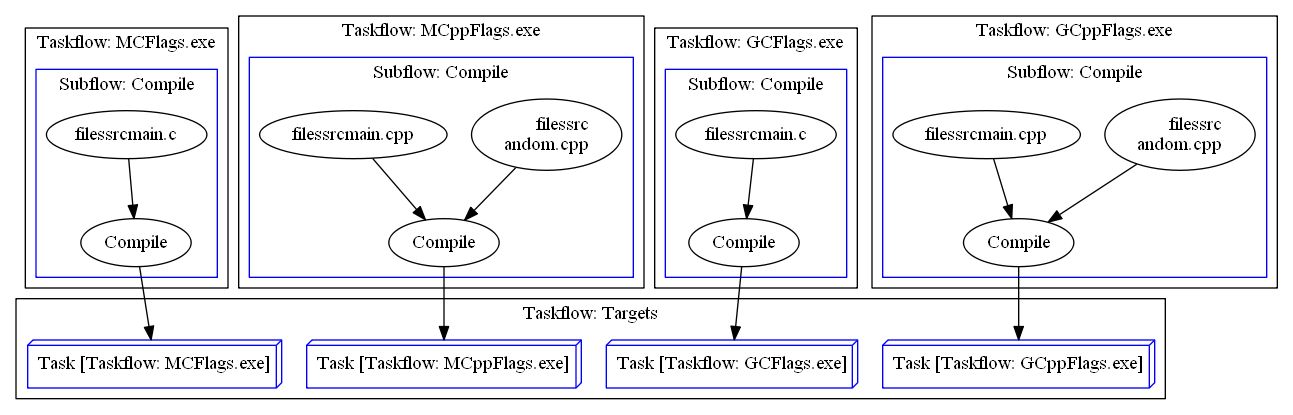
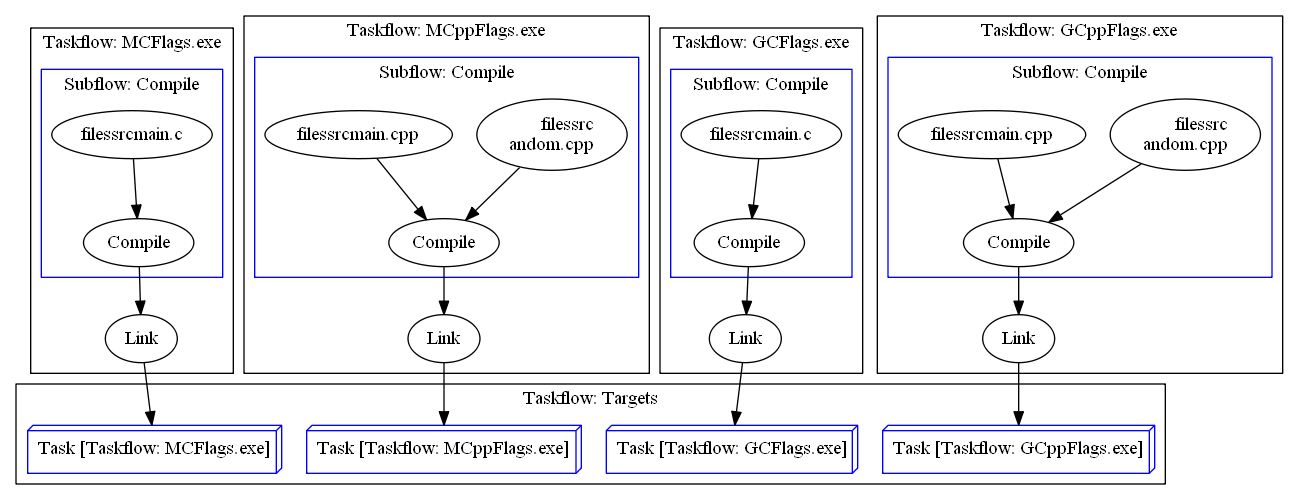
Updated LinkTargetTask for recompile
- Updated graph.PNG

diff --git a/buildcc/lib/target/src/target/tasks.cpp b/buildcc/lib/target/src/target/tasks.cpp
@@ -34,7 +34,11 @@ void Target::CompileTargetTask(
 
 void Target::LinkTargetTask() {
   env::log_trace(name_, __FUNCTION__);
-  link_task_ = tf_.emplace([this]() { LinkTarget(); }).name(kLinkTaskName);
+  if (dirty_) {
+    link_task_ = tf_.emplace([this]() { LinkTarget(); }).name(kLinkTaskName);
+  } else {
+    link_task_ = tf_.emplace([]() {}).name(kLinkTaskName);
+  }
   link_task_.succeed(compile_task_);
 }
 

diff --git a/buildcc/lib/target/src/target/build.cpp b/buildcc/lib/target/src/target/build.cpp
@@ -86,8 +86,9 @@ void Target::BuildRecompile() {
   RecheckPaths(loader_.GetLoadedLibDeps(), current_lib_deps_);
   RecheckExternalLib(loader_.GetLoadedExternalLibDeps(),
                      current_external_lib_deps_);
+
+  LinkTargetTask();
   if (dirty_) {
-    LinkTargetTask();
     Store();
     rebuild_ = true;
   }
